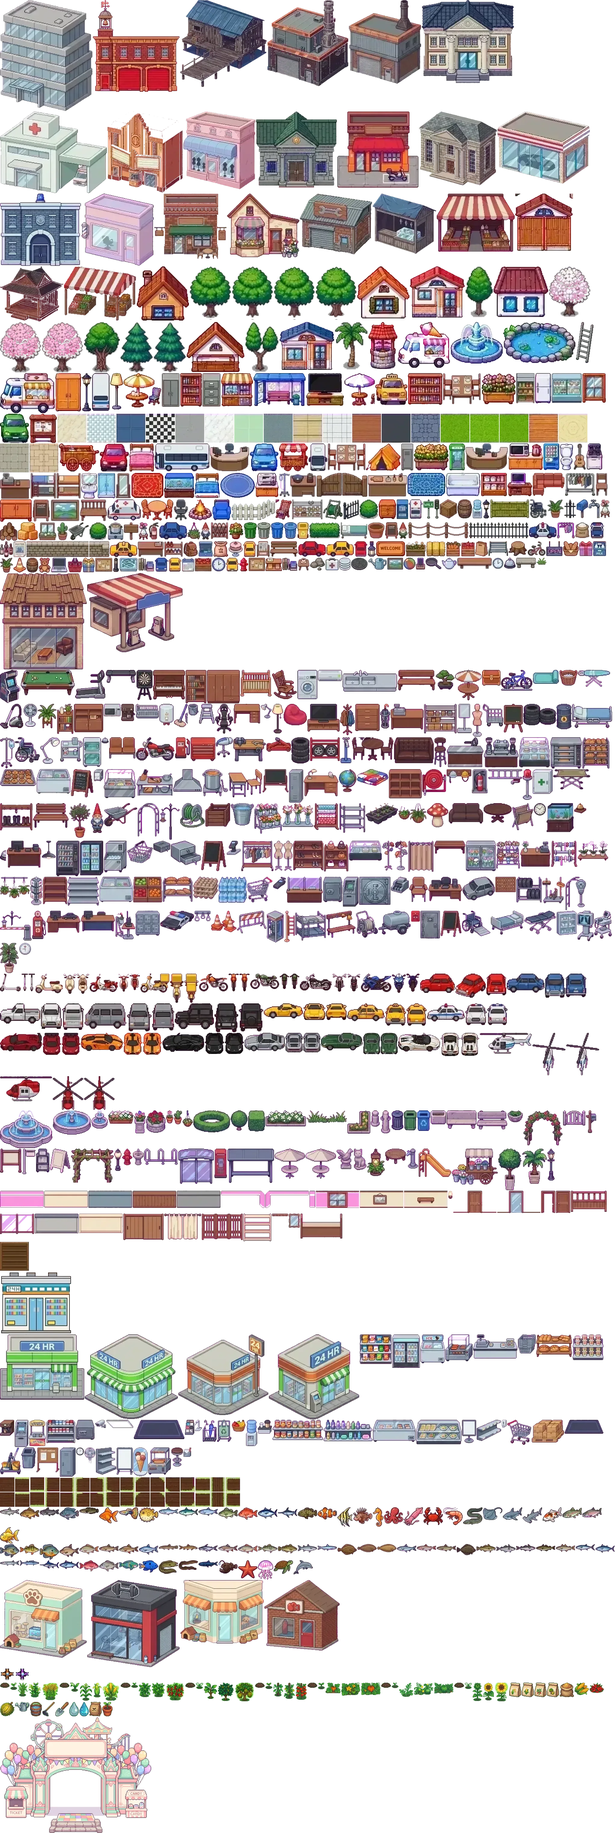
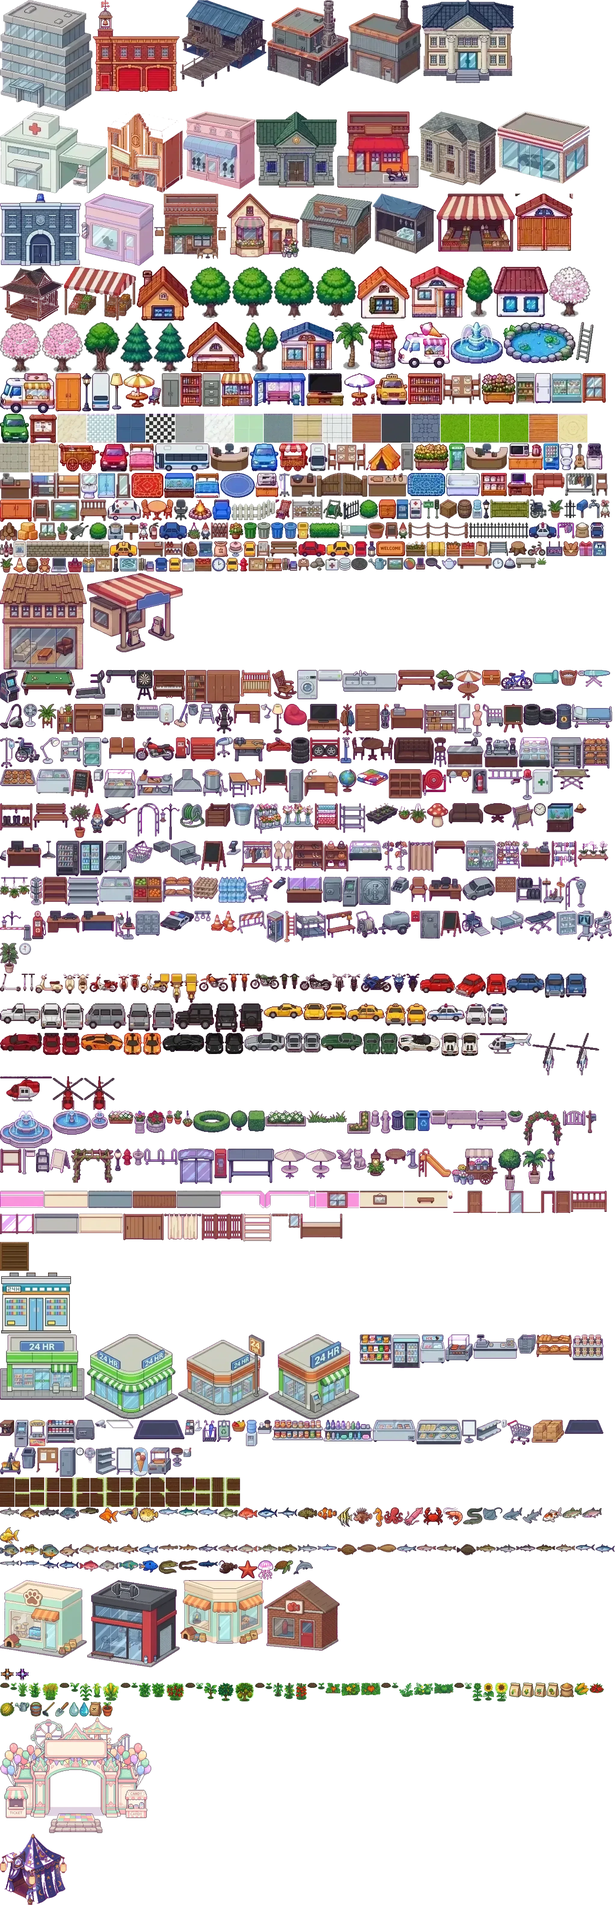
Add fortune teller tent: tarot reading for coins, fortune outfit
Claude-Session: https://claude.ai/code/session_011vTRLcvJmqJKhBboYRSi88

diff --git a/server/index.js b/server/index.js
@@ -1318,7 +1318,7 @@ const PET_LEASH = 800;
 const SAVE_KEYS = ['paidG', 'vipT', 'paidN', 'paidThb', 'ledger', 'ledBal', 'lastOff', 'hfl', 'hwl', 'hdeco', 'koDay', 'luxT', 'useDay', 'tax', 'fuelDay', 'fuelDue', 'lotto', 'lottoRes', 'jgDay', 'santa', 'rcode', 'refBy', 'refN', 'refPend', 'refPaid', 'actMin', 'pnames', 'leash', 'leashOn', 'gang', 'gpd', 'mpd', 'idd', 'v', 'login', 'name', 'salt', 'hash', 'avatar', 'money', 'energy', 'hunger', 'health', 'career', 'licenses', 'xp', 'inv', 'x', 'y', 'earned',
   'created', 'quests', 'qStreak', 'lastLogin', 'loginStreak', 'loginDays', 'wquests', 'keep', 'achGot', 'tools', 'vehicles', 'ride', 'gems', 'house', 'furniture', 'hlv', 'fpos', 'yz', 'ycrops', 'yfree', 'wst', 'msat', 'stocks', 'bank', 'bankT', 'loan', 'dz', 'awake', 'listings',
   'phone', 'contacts', 'stats', 'ach', 'title', 'jobChanges', 'enrolled', 'classes', 'office', 'garden', 'rent', 'houseSale', 'houseRent', 'down', 'happy', 'bills', 'billMonth', 'usage', 'utilOff', 'wanted', 'crimes', 'craving', 'gender', 'look', 'wardrobe',
-  'balloons', 'balloon', 'god', 'rod', 'rods', 'rodEq', 'hideJob', 'outfit', 'outfits', 'licExp', 'phoneAsk', 'school', 'pic', 'mail', 'fishdex', 'pets', 'pet', 'show', 'frames', 'frame', 'egg', 'riderBike', 'policeCar', 'gsub', 'gmail', 'stok', 'hown', 'bless', 'almsDay', 'adDay', 'adN'];
+  'balloons', 'balloon', 'fortune', 'god', 'rod', 'rods', 'rodEq', 'hideJob', 'outfit', 'outfits', 'licExp', 'phoneAsk', 'school', 'pic', 'mail', 'fishdex', 'pets', 'pet', 'show', 'frames', 'frame', 'egg', 'riderBike', 'policeCar', 'gsub', 'gmail', 'stok', 'hown', 'bless', 'almsDay', 'adDay', 'adN'];
 let nextListing = 1, botCap = 6;   // AI townsfolk still in town (counts down to 0, saved)
 async function load() {
   const rows = await store.loadAll();
@@ -1970,6 +1970,20 @@ function act(a, m) {
     case 'balloon.hold': {
       if (m.id && !(a.balloons || []).includes(m.id)) return;
       a.balloon = m.id || ''; markMe(a); sendRoster(); return;
+    }
+    // ---------------- 🔮 fortune teller's tent: pay a few coins, draw 3 tarot cards (past / present / future)
+    case 'fortune.read': {
+      const F = D.FORTUNE, d = dayKey(); let f = a.fortune; if (!f || f.d !== d) f = a.fortune = { d, n: 0, bonus: 0, last: f?.last || null };
+      if (!cd(a, 'fortune', 1500, true)) return;
+      if (f.n >= F.perDay) return toast(a, `วันนี้ดูดวงครบ ${F.perDay} ครั้งแล้ว ไพ่ขอพักก่อน พรุ่งนี้มาใหม่นะ`, '🔮', false);
+      if (!pay(a, F.price)) return;
+      const ids = Object.keys(D.TAROT).sort(() => Math.random() - .5).slice(0, 3);
+      const cards = ids.map(id => ({ id, r: Math.random() < .35 ? 1 : 0 }));   // r = reversed
+      const good = cards.every(c => D.TAROT[c.id][c.r ? 'rev' : 'up'][1] > 0);
+      f.n++; f.last = cards; f.good = good ? 1 : 0; f.paid = 0;
+      if (good && !f.bonus) { f.bonus = 1; f.paid = F.bonus; a.money += F.bonus; a.earned = (a.earned || 0) + F.bonus; joy(a, 6); feed(`🔮✨ ${a.name} เปิดไพ่ยิปซีได้ดวงดีทั้ง 3 ใบ!`); }
+      stat(a, 'tarot'); markMe(a); FX0(a, 'pick');
+      return;
     }
     // ---------------- getting around
     case 'gate.go': {
@@ -3830,7 +3844,7 @@ function meView(a) {
     t: 'me', gang: gangView(a), id: a.id, name: a.name, avatar: a.avatar, x: +a.x.toFixed(2), y: +a.y.toFixed(2), money: Math.round(a.money), energy: a.energy, hunger: a.hunger, health: a.health,
     career: a.career, licenses: a.licenses, lv: lvl(a), xp: a.xp, jx: jobView(a), inv: a.inv, phone: a.phone, contacts: a.contacts || [],
     tools: a.tools, vipT: a.vipT || 0, gems: a.gems || 0, gemInf: godInf(a) ? 1 : 0, monInf: godInf(a) ? 1 : 0, vehicles: a.vehicles || [], ride: a.ride || '', pass: a.pass || 0, gmail: a.gsub ? a.gmail || 'linked' : '', hown: a.hown || null, bless: a.bless || 0, alms: a.alms ? { pts: a.alms.pts, got: a.alms.got } : null, almsDay: a.almsDay ?? -1, adLeft: ADS_GAME ? Math.max(0, ADS.daily - (a.adDay === new Date(now() + 7 * 3600e3).toISOString().slice(0, 10) ? a.adN || 0 : 0)) : 0, house: a.house, furniture: a.furniture, hlv: a.hlv || 0, fpos: a.fpos || {}, yz: a.yz || [], wstock: a.career === 'merchant' ? wstockView(a) : null, stocks: a.stocks || {}, docjob: a.docjob ? { dest: a.docjob.dest, pay: a.docjob.pay } : null, npcp: tradePrices(a), comfort: comfort(a), speed: speedOf(a), speedBase: dzProd(a, 'speed') * godSpeed(a) * wwSpeed(a), rent: a.rent, houseSale: a.houseSale, houseRent: a.houseRent,
-    bank: Math.floor(a.bank), loan: Math.ceil(a.loan), listings: a.listings || [], dz: a.dz || [], awake: Math.floor(a.awake || 0), bed: a.bed ?? -1, chair: a.chair, balloons: a.balloons || [], balloon: a.balloon || '',
+    bank: Math.floor(a.bank), loan: Math.ceil(a.loan), listings: a.listings || [], dz: a.dz || [], awake: Math.floor(a.awake || 0), bed: a.bed ?? -1, chair: a.chair, balloons: a.balloons || [], fortune: a.fortune ? (a.fortune.d === dayKey() ? a.fortune : { last: a.fortune.last, n: 0 }) : null, balloon: a.balloon || '',
     pose: a.pose, down: a.down, cast: a.cast ? { state: a.cast.state, x: a.cast.x, y: a.cast.y, fight: a.cast.state === 'fight' ? a.cast.fight : null } : null, garden: a.garden, enrolled: a.enrolled, classes: a.classes || 0,
     office: a.office ? { n: a.office.n || 0, strikes: a.office.strikes, day: a.office.day, late: a.office.late, hours: +(a.office.hours || 0).toFixed(2), closed: a.office.closed } : null,
     gender: a.gender, look: a.look, wardrobe: a.wardrobe, admin: isAdmin(a), god: isAdmin(a) ? (a.god || {}) : null,
@@ -3992,7 +4006,7 @@ function login(ws, m, pre) {
     t: 'init', id: a.id, relog: pre && a.stok ? { name: a.login, tok: a.stok } : null, gid: GOOGLE_ID,
     map: { w: D.W, h: D.H, tiles: D.TILES, buildings: D.BUILDINGS }, stations: D.STATIONS.filter(s => s.type !== 'fishspot'), areas: D.AREAS, looks: D.LOOKS, shirts: D.SHIRTS, solid: D.SOLID,
     items: D.ITEMS, cats: D.CATEGORIES, crops: D.CROPS, recipes: D.RECIPES, cook: D.COOK, careers: D.CAREERS, licenses: D.LICENSES,
-    titles: D.OFFICE_TITLES, wages: D.OFFICE_WAGE, speed: SPEED, clock: D.CLOCK, run: D.RUN, build: BUILD, fishing: D.FISHING, rides: D.RIDES, pool: D.POOL, pshop: D.PSHOP, energyMul: D.ENERGY_MUL, pay: PAY.ON || isAdmin(a) ? { on: PAY.ON ? 1 : 0, sb: PAY.SANDBOX ? 1 : 0, vip: PAY.PACKS.find(x => x.id === 'vip').thb, angel: PAY.PACKS.find(x => x.id === 'angel').thb } : null, ads: ADS_GAME ? { client: ADS_CLIENT, test: ADS_TEST ? 1 : 0, daily: ADS.daily, gems: ADS.gems, energy: ADS.energy } : null, tshop: D.TSHOP, templeq: { pray: D.TEMPLEQ.pray }, homeTiers: D.HOME_TIERS, homeStyles: D.HOME_STYLES, jobGames: D.JOBGAMES, balloons: D.BALLOONS, taxi: { phone: TAXI.phone, base: TAXI.base, perTile: TAXI.perTile, far: TAXI.far, dest: TAXI_DEST }, outfitDefs: D.OUTFITS, doctor: D.DOCTOR, icu: D.ICU, adminName: ADMIN_NAME, adminTitle: ADMIN_TITLE, radius: D.RADIUS, chat: [...chatLog.filter(m => !(m.id < 0)).slice(-25), ...(gangOf(a)?.chat || []).slice(-15)].sort((x, y) => (x.ts || 0) - (y.ts || 0)), isNew, dayMs: D.DAY_MS, hours: D.HOURS, shift: D.SHIFT, months: D.MONTHS, monthDays: D.MONTH_DAYS,
+    titles: D.OFFICE_TITLES, wages: D.OFFICE_WAGE, speed: SPEED, clock: D.CLOCK, run: D.RUN, build: BUILD, fishing: D.FISHING, rides: D.RIDES, pool: D.POOL, pshop: D.PSHOP, tarot: D.TAROT, fortuneCfg: D.FORTUNE, energyMul: D.ENERGY_MUL, pay: PAY.ON || isAdmin(a) ? { on: PAY.ON ? 1 : 0, sb: PAY.SANDBOX ? 1 : 0, vip: PAY.PACKS.find(x => x.id === 'vip').thb, angel: PAY.PACKS.find(x => x.id === 'angel').thb } : null, ads: ADS_GAME ? { client: ADS_CLIENT, test: ADS_TEST ? 1 : 0, daily: ADS.daily, gems: ADS.gems, energy: ADS.energy } : null, tshop: D.TSHOP, templeq: { pray: D.TEMPLEQ.pray }, homeTiers: D.HOME_TIERS, homeStyles: D.HOME_STYLES, jobGames: D.JOBGAMES, balloons: D.BALLOONS, taxi: { phone: TAXI.phone, base: TAXI.base, perTile: TAXI.perTile, far: TAXI.far, dest: TAXI_DEST }, outfitDefs: D.OUTFITS, doctor: D.DOCTOR, icu: D.ICU, adminName: ADMIN_NAME, adminTitle: ADMIN_TITLE, radius: D.RADIUS, chat: [...chatLog.filter(m => !(m.id < 0)).slice(-25), ...(gangOf(a)?.chat || []).slice(-15)].sort((x, y) => (x.ts || 0) - (y.ts || 0)), isNew, dayMs: D.DAY_MS, hours: D.HOURS, shift: D.SHIFT, months: D.MONTHS, monthDays: D.MONTH_DAYS,
     props: D.PROPS, trees: D.TREES, lotsDef: D.LOTS, garden: D.GARDEN, yard: D.YARD, cstore: D.CSTORE, stocks: D.STOCKS.map(({ id, name, icon, desc }) => ({ id, name, icon, desc })), stockFee: [D.STOCK.fee, D.STOCK.feeMin], diseases: D.DISEASES, treatments: D.TREATMENTS, ach: D.ACHIEVEMENTS, lux: D.LUX_TITLES, payTitle: D.PAY_TITLE, fish: D.FISH, fishRarity: D.FISH_RARITY, pets: D.PETS, frameDefs: D.FRAMES, rods: D.RODS, rodOrder: D.ROD_ORDER,
     shop: { vehicles: D.VEHICLES, tools: D.TOOLS, toolPrices: D.TOOL_PRICES, housePrices: D.HOUSE_PRICES, houseRent: D.HOUSE_RENT, furniture: D.FURNITURE, plantIndoor: D.PLANT_INDOOR, hfloors: D.HOME_FLOORS, hwalls: D.HOME_WALLS, floorPrice: D.FLOOR_PRICE, floors: D.HOUSE_FLOORS, bank: D.BANK },
   });

diff --git a/public/game.js b/public/game.js
@@ -109,7 +109,7 @@ const chPut = (k, c) => { chCache.set(k, c); while (chCache.size > CH_MAX) chCac
 const whenChars = fn => { if (chImg) fn(); else chWait.push(fn); };
 // one small image per outfit sheet (public/assets/pchar/, tools/split_pchar.py), loaded the first time someone wears it:
 // the old single atlas decoded to ~135 MB and iPhones reloaded the page
-const CH_V = 'b1', chSheets = {};
+const CH_V = 'b2', chSheets = {};
 function chSheet(g) {
   let e = chSheets[g]; if (e) return e.ok ? e.im : null;
   e = chSheets[g] = { im: new Image(), ok: false }; e.im.onload = () => { e.ok = true; if (g === '_base' || g === 'f') chBoot(); }; e.im.onerror = () => setTimeout(() => { delete chSheets[g]; }, 5000);
@@ -173,7 +173,7 @@ function femOutfitFrame(sheet, step, lk) {
 const OUTFIT_SHEET = { templeboy: 'scout', undertaker: 'tuxedo', mechanic: 'tracksuit', thug: 'hoodie', photographer: 'student', courier: 'rider', cashier: 'merchant', doctor: 'doctor', police: 'police', farmer: 'farmer', chef: 'chef', merchant: 'merchant', office: 'office', fisher: 'fisher', fishing: 'fisher', rider: 'rider', beggar: 'beggar', thief: 'thief',
   pajama: 'pajama', tracksuit: 'tracksuit', hoodie: 'hoodie', cowboy: 'cowboy', devil: 'devil', pilot: 'pilot', magician: 'magician', thai: 'thai', tuxedo: 'tuxedo', admin: 'admin',
   student: 'student', scout: 'scout', songkran: 'songkran', lanna: 'lanna', phasin: 'phasin', muaythai: 'muaythai', bunny: 'bunny', chinese: 'chinese', lukthung: 'lukthung', chakri: 'chakri', angel: 'angel', santa: 'santa',
-  tigerpj: 'tigerpj', photog: 'photog', raincoat: 'raincoat', explorer: 'explorer', catsuit: 'catsuit', chicken: 'chicken', surf: 'surf', hiphop: 'hiphop', thairoyal: 'thairoyal', martial: 'martial', knight: 'knight' };   // women's versions are the 'f' + name sheets
+  tigerpj: 'tigerpj', photog: 'photog', raincoat: 'raincoat', explorer: 'explorer', catsuit: 'catsuit', chicken: 'chicken', surf: 'surf', hiphop: 'hiphop', thairoyal: 'thairoyal', martial: 'martial', knight: 'knight', fortune: 'fortune' };   // women's versions are the 'f' + name sheets
 const ofName = o => o ? (me?.gender === 'f' && o.nf ? o.nf : o.name) : '';
 const WALK = { front: ['down0', 'down1', 'down0', 'down2'], back: ['up0', 'up1', 'up0', 'up1'], side: ['left0', 'left1', 'left0', 'left2'] };
 // admin cloak aura: a pulsing dark-violet glow behind the body, sparks orbiting around it (front half drawn over the sprite)
@@ -3248,6 +3248,7 @@ function buildStaff() {
 }
 const KEEPERS = [   // shopkeepers, each matching their painted portrait (NPC_FACE)
   { st: 'balloon', name: 'ลุงโป่ง (ร้านลูกโป่ง)', short: 'ลุงโป่ง', icon: '🎈', dx: 0, dy: 1, of: 'magician', bl: 'bunch', lk: { hair: 'silver', shirt: 'yellow' }, hi: ['ลูกโป่งมาแล้วจ้า! ถือเดินเล่นสวยๆ', 'สีไหนดีหลาน ลุงมีครบ', 'ลูกโป่งหัวใจ เอาไปให้แฟนสิ'] },
+  { st: 'fortune', name: 'แม่หมอจันทรา (แม่หมอพยากรณ์)', short: 'แม่หมอจันทรา', icon: '🔮', g: 'f', of: 'fortune', dx: .9, dy: -1.1, lk: { hair: 'brown' }, hi: ['มาสิลูก ให้ไพ่บอกทางให้', 'ไพ่ 3 ใบ อดีต ปัจจุบัน อนาคต', 'ใจเย็นๆ แล้วตั้งคำถามในใจนะ'] },
   { st: 'petshop1', name: 'น้องมะลิ (ร้านสัตว์เลี้ยง)', short: 'น้องมะลิ', icon: '🐾', g: 'f', dx: .7, dy: -1.15, lk: { hair: 'brown', shirt: 'red' }, hi: ['ยินดีต้อนรับค่ะ! อยากได้เพื่อนตัวฟูไหมคะ', 'ทุกตัวสุขภาพดีค่ะ ลูบได้นะคะ', 'ตัวไหนถูกใจ ลองแตะดูได้เลยค่ะ'] },
   { st: 'petshop2', name: 'พี่ภูผา (ร้านสัตว์เลี้ยง สาขา 2)', short: 'พี่ภูผา', icon: '🐶', dx: .7, dy: -1.15, of: 'hoodie', lk: { hair: 'black' }, hi: ['เข้ามาดูน้องๆ ได้เลยครับ', 'หมา แมว กระต่าย มีครบครับ', 'เลี้ยงแล้วพาเดินเล่นทุกวันนะครับ'] },
   { st: 'restaurant', name: 'ป้าแดง (เจ้าของร้านอาหาร)', short: 'ป้าแดง', icon: '🍛', g: 'f', dx: .6, dy: -1.15, lk: { hair: 'black', shirt: 'white', pants: 'brown' }, hi: ['หิวไหมจ๊ะ วันนี้มีเมนูเด็ดนะ', 'นั่งก่อนจ้ะ เดี๋ยวน้องเสิร์ฟให้', 'กินให้อิ่มนะลูก'] },
@@ -4497,6 +4498,10 @@ const needCareer = c => job(c) || !G.careers[c] ? '' : `<div class="sub" style="
 
 // what's new: a short summary of every update (newest first). Shown once after each update; also under ⚙ → 🆕 อัปเดต
 const NEWS = [
+  { v: '2026-11-22', d: '22 พ.ย.', items: [
+    '🔮 เปิดเต็นท์แม่หมอจันทรา กลางเมือง: เปิดไพ่ยิปซี 3 ใบ ครั้งละ ฿50 วันละ 3 ครั้ง ได้ดวงดีทั้ง 3 ใบรับโบนัส',
+    '👗 ชุดใหม่ "ชุดแม่หมอพยากรณ์" ที่ร้านแฟชั่น (💎300)',
+  ] },
   { v: '2026-11-21c', d: '21 พ.ย. (รอบ 74)', items: [
     '⚡ ไฟล์เกมเล็กลง โหลดเข้าเกมเร็วขึ้น (โดยเฉพาะเน็ตมือถือ)',
   ] },
@@ -5111,6 +5116,17 @@ function renderPanel(p) {
       }
       const pick = (me.jobs || []).some(j => j.mine && j.state === 'taken' && j.src === 'market') ? `<div class="jobbox ok">🛵 มีของต้องรับไปส่ง ${B('📦 รับของจากตลาด', { t: 'act', st, a: 'pickup' }, 'primary')}</div>` : '';
       return `<h2>🏪 ตลาดกลาง</h2><div class="sub">${hoursTxt('market')} · ของที่วางขายครบ 2 ชั่วโมงแล้วยังไม่มีคนซื้อ ตลาดจะรับซื้อให้ที่ 40% ของราคาตลาด (ขายให้ผู้เล่นด้วยกันได้ราคาดีกว่า)</div>${pick}${tabs}${body}`;
+    }
+    case 'fortune': {   // 🔮 tarot tent: 3 cards, upright or reversed (reversed = the same picture turned upside down)
+      const F = G.fortuneCfg || { price: 50, perDay: 3, bonus: 30 }, T = G.tarot || {}, ids = Object.keys(T), f = me.fortune;
+      const used = f?.n || 0, left = Math.max(0, F.perDay - used), last = f?.last;
+      const card = (c, i) => { const t = T[c.id]; if (!t) return ''; const [txt, sc] = t[c.r ? 'rev' : 'up'];
+        return `<div style="flex:1;min-width:0;text-align:center"><div class="sub">${['อดีต', 'ปัจจุบัน', 'อนาคต'][i]}</div>
+          <div style="width:84px;height:106px;margin:4px auto;border:3px solid #d9a521;border-radius:8px;background:url(assets/tarot.webp) -${ids.indexOf(c.id) * 84}px 0/${ids.length * 84}px 106px;image-rendering:pixelated;${c.r ? 'transform:rotate(180deg)' : ''}"></div>
+          <b style="font-size:12px">${esc(t.n)}${c.r ? ' · กลับหัว' : ''}</b><div class="sub" style="color:${sc > 0 ? '#2e9e5b' : sc < 0 ? '#c0482b' : 'inherit'}">${esc(txt)}</div></div>`; };
+      const res = last ? `<div class="jobbox" style="display:flex;gap:6px;align-items:flex-start">${last.map(card).join('')}</div>${f.good && f.paid ? `<div class="jobbox ok">✨ ดวงดีทั้ง 3 ใบ! รับโบนัส ${money(f.paid)}</div>` : f.good ? '<div class="jobbox ok">✨ ดวงดีทั้ง 3 ใบ! (โบนัสวันนี้รับไปแล้ว)</div>' : ''}` : '';
+      return `<h2>🔮 เต็นท์แม่หมอจันทรา</h2><div class="sub">เปิดไพ่ยิปซี 3 ใบ (อดีต · ปัจจุบัน · อนาคต) ครั้งละ ${money(F.price)} · วันละ ${F.perDay} ครั้ง · ดวงดีทั้ง 3 ใบรับโบนัสวันละครั้ง</div>
+        <div class="grid2">${B(`🔮 เปิดไพ่ (${money(F.price)})`, { t: 'act', st, a: 'read' }, 'primary', left <= 0 || me.money < F.price)}</div><div class="sub">วันนี้เหลือ ${left}/${F.perDay} ครั้ง</div>${res}`;
     }
     case 'pshop': {
       const rows = (G.pshop?.items || []).map(id => { const it = G.items[id], u = Math.ceil(it.base * G.pshop.markup), e = it.eat || {};

diff --git a/server/data.js b/server/data.js
@@ -373,6 +373,12 @@ for (let y = 0; y < H; y++) for (let x = 0; x < RX0; x++) if (grid[y][x] === 'T'
     // a paved doorstep from the door down to the street
     const cx = Math.floor(b.x + b.w / 2); for (let y = b.y + b.h; y < front + 1; y++) for (const xx of [cx - 1, cx]) if ('.m'.includes(get(xx, y))) set(xx, y, 'c');
   }
+  // 0b) 🔮 the fortune teller's tent: a street counter (no room), reads tarot for coins
+  {
+    const b = B('fortune', 'b_fortune', 38, 22, { label: 'เต็นท์แม่หมอพยากรณ์', icon: '🔮', st: 'fortune', stype: 'fortune', noSlot: true });
+    for (let j = b.y; j < b.y + b.h; j++) for (let i = b.x; i < b.x + b.w; i++) { dropTree(i, j); if (get(i, j) === '.') set(i, j, 'B'); }
+    for (let k = PROPS.length - 1; k >= 0; k--) { const q = PROPS[k]; if (q.x >= b.x && q.x < b.x + b.w && q.y - .5 >= b.y && q.y - .5 < b.y + b.h + 1) PROPS.splice(k, 1); }
+  }
   // 1) back gardens: every shop or service whose back faces open grass gets a 3-row garden behind it: a white picket
   //    fence along the far edge, a hedge against the back wall, bushes in the corners and a flower bed in the middle
   for (const b of BUILDINGS) {
@@ -1532,7 +1538,8 @@ const OUTFITS = { fisher: { name: 'ชุดนักตกปลา', how: 'ต
   hiphop:    { name: 'ชุดฮิปฮอปสตรีท', how: 'ซื้อที่ร้านแฟชั่น', gems: 200 },
   thairoyal: { name: 'ชุดไทยราชสำนัก', how: 'ซื้อที่ร้านแฟชั่น', gems: 250 },
   martial:   { name: 'ชุดจอมยุทธ์มังกรแดง', nf: 'ชุดจอมยุทธ์หญิงมังกรแดง', how: 'ซื้อที่ร้านแฟชั่น', gems: 350 },
-  knight:    { name: 'ชุดอัศวินเกราะเงิน', how: 'ซื้อที่ร้านแฟชั่น', gems: 450 } };
+  knight:    { name: 'ชุดอัศวินเกราะเงิน', how: 'ซื้อที่ร้านแฟชั่น', gems: 450 },
+  fortune:   { name: 'ชุดแม่หมอพยากรณ์', how: 'ซื้อที่ร้านแฟชั่น', gems: 300 } };
 // 🎨 dyed versions of the shop outfits: same sheet (base), clothes recoloured to one hue on the client; sold like the original
 const DYES = { red: ['แดง', 0], orange: ['ส้ม', 28], yellow: ['เหลือง', 52], green: ['เขียว', 125], sky: ['ฟ้า', 195], blue: ['น้ำเงิน', 228], purple: ['ม่วง', 275], pink: ['ชมพู', 325] };
 const DYE_SETS = { tracksuit: ['sky', 'green'], hoodie: ['purple', 'red'], songkran: ['pink', 'purple'], bunny: ['sky', 'purple'], chinese: ['blue', 'purple'],
@@ -1542,7 +1549,7 @@ const DYE_WHITE = ['catsuit', 'chicken', 'knight'];   // white / silver cloth al
 // shop tabs
 const OUTFIT_CAT = { casual: ['pajama', 'tracksuit', 'hoodie', 'student', 'scout', 'tigerpj', 'photog', 'raincoat', 'explorer', 'surf', 'hiphop'],
   thai: ['songkran', 'lanna', 'phasin', 'muaythai', 'lukthung', 'chinese', 'chakri', 'thai', 'thairoyal'],
-  costume: ['bunny', 'catsuit', 'chicken', 'devil', 'cowboy', 'pilot', 'tuxedo', 'magician', 'martial', 'knight'] };
+  costume: ['bunny', 'catsuit', 'chicken', 'devil', 'cowboy', 'pilot', 'tuxedo', 'magician', 'martial', 'knight', 'fortune'] };
 for (const [c, ids] of Object.entries(OUTFIT_CAT)) for (const id of ids) OUTFITS[id].cat = c;
 for (const [base, ds] of Object.entries(DYE_SETS)) for (const d of ds) { const o = OUTFITS[base], [cn, hue] = DYES[d];
   OUTFITS[`${base}_${d}`] = { ...o, name: `${o.name} (สี${cn})`, ...(o.nf ? { nf: `${o.nf} (สี${cn})` } : {}), base, hue, cat: 'dye', nosale: 1, ...(DYE_WHITE.includes(base) ? { wt: 1 } : {}) }; }
@@ -1650,11 +1657,22 @@ const FORTUNES = [
   'โชคดีจะมาตอนที่คุณไม่ทันตั้งตัว', 'วันนี้เหมาะกับการโทรหาเพื่อนเก่า', 'น้ำพุบอกว่า... ขอเหรียญอีกสักเหรียญ', 'ดวงความรักสดใส ยิ้มเยอะๆ นะ',
   'เที่ยงคืนเป็นเวลาของสิ่งแปลกประหลาด', 'คนที่เดินผ่านคุณไปเมื่อกี้ อาจไม่ใช่คนธรรมดา', 'อดทนอีกนิด สิ่งที่รอจะมาถึง', 'วันนี้ใครให้อะไร รับไว้ด้วยรอยยิ้ม',
 ];
+// 🔮 tarot reading at the fortune teller's tent: 3 cards (past / present / future), each upright or reversed. s: 1 good omen, 0 neutral, -1 warning
+const FORTUNE = { price: 50, perDay: 3, bonus: 30, bonusDay: 1 };   // all-three-good readings pay a small bonus, once a day
+const TAROT = {
+  fool:       { n: 'ไพ่ผู้เริ่มต้น (The Fool)', up: ['การเริ่มต้นใหม่กำลังรออยู่ กล้าก้าวออกไปเลย', 1], rev: ['ระวังความประมาท คิดให้รอบคอบก่อนตัดสินใจ', -1] },
+  magician:   { n: 'ไพ่นักมายากล (The Magician)', up: ['คุณมีทุกอย่างที่ต้องใช้อยู่ในมือแล้ว ลงมือเลย', 1], rev: ['มีคนพูดเกินจริง อย่าเพิ่งเชื่อทุกคำ', -1] },
+  priestess:  { n: 'ไพ่นักบวชหญิง (The High Priestess)', up: ['เชื่อสัญชาตญาณของคุณ คำตอบอยู่ข้างใน', 0], rev: ['มีบางอย่างซ่อนอยู่ ลองถามให้ชัดก่อน', -1] },
+  empress:    { n: 'ไพ่จักรพรรดินี (The Empress)', up: ['ความอุดมสมบูรณ์และความรักกำลังเติบโต', 1], rev: ['อย่าลืมดูแลตัวเองบ้าง พักผ่อนให้พอ', 0] },
+  emperor:    { n: 'ไพ่จักรพรรดิ (The Emperor)', up: ['ความมั่นคงและการวางแผนที่ดีจะพาคุณไปได้ไกล', 1], rev: ['อย่าดื้อเกินไป ลองฟังความเห็นคนอื่น', -1] },
+  hierophant: { n: 'ไพ่พระสังฆราช (The Hierophant)', up: ['ผู้ใหญ่ใจดีหรือคนมีประสบการณ์จะช่วยแนะนำคุณ', 1], rev: ['ลองคิดนอกกรอบ ไม่ต้องทำตามแบบเดิมเสมอไป', 0] },
+  chariot:    { n: 'ไพ่รถศึก (The Chariot)', up: ['ความมุ่งมั่นของคุณจะพาไปถึงเป้าหมาย', 1], rev: ['ไปเร็วเกินไปอาจพลาด ชะลอสักนิด', -1] },
+  strength:   { n: 'ไพ่พลัง (Strength)', up: ['ความใจเย็นและกำลังใจของคุณชนะทุกอย่าง', 1], rev: ['ช่วงนี้ใจอาจอ่อนแรง ขอกำลังใจจากเพื่อนได้', 0] } };
 // food no longer gives energy (energy comes back by sleeping at home or at the amusement park)
 for (const it of Object.values(ITEMS)) if (it.eat && it.eat.energy && !it.keepEnergy) { delete it.eat.energy; if (!Object.keys(it.eat).length) it.eat.happy = 2; }
 // what the plant nursery sells: every garden piece, plus the potted plants for indoors
 const PLANT_INDOOR = ['xfern', 'xbonsai', 'xtree', 'xplantx', 'xvases', 'xflowers', 'xopalm', 'xotree', 'xotulip', 'xoroses', 'xopot', 'xocactus', 'xobowl', 'xoplanter'];
-module.exports = { BALLOONS, QUIZ, PLANT_INDOOR, POOL, PSHOP, TSHOP, TEMPLEQ, EGG, FORTUNES, RIDES, ENERGY_MUL,
+module.exports = { TAROT, FORTUNE, BALLOONS, QUIZ, PLANT_INDOOR, POOL, PSHOP, TSHOP, TEMPLEQ, EGG, FORTUNES, RIDES, ENERGY_MUL,
   RUN, CLOCK, gameRate, DOCTOR, ICU, FISHING, OUTFITS, LUX_TITLES, PAY_TITLE,
   LOOKS, SHIRTS, NPC_LINES, FOLK, MONTH_DAYS, MONTHS, monthIdx, dateAt, UTIL, POLICE_TEST, POLICE, HAPPY,
   W, H, TILES, AREAS, ROOMS, BUILDINGS, STATIONS, PROPS, TREES, LOTS, GARDEN, GATES, CSTORE, STOCKS, STOCK, YARD, YARDS, yardZone, SPAWN, RADIUS, SOLID,

diff --git a/tools/build_tarot.py b/tools/build_tarot.py
@@ -1,0 +1,44 @@
+"""Cut the tarot card sheets (tools/sheets/tarot_a.jpg, tarot_b.jpg ... 3x3 cards on a plain beige background) into
+public/assets/tarot.webp (one row of 150x190 cards) + tarot.json {id: index}. The painted name strip under each card
+and the gold frame are cropped off (the game draws its own frame and writes the name in Thai).
+
+    python3 tools/build_tarot.py
+"""
+import glob, json, os
+import numpy as np
+from PIL import Image
+from scipy import ndimage as ndi
+
+ROOT = os.path.join(os.path.dirname(__file__), '..')
+SHEETS = {'a': ['fool', 'magician', 'priestess', 'empress', 'emperor', 'hierophant', 'lovers', 'chariot', 'strength'],
+          'b': ['hermit', 'wheel', 'justice', 'death', 'temperance', 'devil', 'tower', 'star', 'moon']}   # sheet b order is a guess: edit when it arrives
+SKIP = {'lovers'}   # left out of the deck
+CW, CH = 150, 190
+
+def cards(path):
+    im = Image.open(path).convert('RGB'); a = np.asarray(im).astype(int)
+    d = ndi.binary_closing(np.abs(a - a[5, 5]).sum(2) > 60, iterations=3)
+    lab, n = ndi.label(d); boxes = []
+    for s in ndi.find_objects(lab):
+        h, w = s[0].stop - s[0].start, s[1].stop - s[1].start
+        if h > im.height * .2 and w > im.width * .06: boxes.append((s[0].start, s[1].start, w, h))
+    boxes.sort(key=lambda b: (round(b[0] / (im.height / 3)), b[1]))
+    sc = im.width / 2816
+    for y, x, w, h in boxes:
+        yield im.crop((x + int(20 * sc), y + int(20 * sc), x + w - int(20 * sc), y + h - int(88 * sc))).resize((CW, CH), Image.LANCZOS)
+
+def main():
+    out, idx = [], {}
+    for k, ids in SHEETS.items():
+        p = os.path.join(ROOT, 'tools', 'sheets', f'tarot_{k}.jpg')
+        if not os.path.exists(p): continue
+        for cid, c in zip(ids, cards(p)):
+            if cid in SKIP: continue
+            idx[cid] = len(out); out.append(c)
+    sheet = Image.new('RGB', (CW * len(out), CH))
+    for i, c in enumerate(out): sheet.paste(c, (i * CW, 0))
+    sheet.save(os.path.join(ROOT, 'public', 'assets', 'tarot.webp'), 'WEBP', quality=88)
+    json.dump({'w': CW, 'h': CH, 'map': idx}, open(os.path.join(ROOT, 'public', 'assets', 'tarot.json'), 'w'))
+    print(len(out), 'cards', list(idx))
+
+if __name__ == '__main__': main()

diff --git a/tools/add_buildings.py b/tools/add_buildings.py
@@ -20,7 +20,8 @@ ITEMS = {'b_rider': ('a', 0, 0, 5.6), 'b_toolshop': ('a', 1, 0, 5), 'b_market': 
          'b_rider2': ('f', 0, 0, 5.6), 'b_market2': ('f', 1, 0, 5.4), 'b_flower2': ('f', 0, 1, 5),
          'b_police2': ('g', 0, 0, 5.6), 'b_fire2': ('g', 1, 0, 6),
          'b_furnshop': ('h', 0, 0, 6), 'b_gas': ('h', 1, 0, 6.6),
-         'b_pet1': ('i', 0, 0, 6.0), 'b_gym1': ('i', 1, 0, 6.4), 'b_pet2': ('i', 0, 1, 5.8), 'b_gym2': ('i', 1, 1, 5.2)}
+         'b_pet1': ('i', 0, 0, 6.0), 'b_gym1': ('i', 1, 0, 6.4), 'b_pet2': ('i', 0, 1, 5.8), 'b_gym2': ('i', 1, 1, 5.2),
+         'b_fortune': ('j', 0, 0, 4.6)}
 SHEET = lambda k: os.path.join(ROOT, 'tools', 'sheets', f'pixel_buildings_{k}.jpg')
 
 def cut(sheet, col, row):
